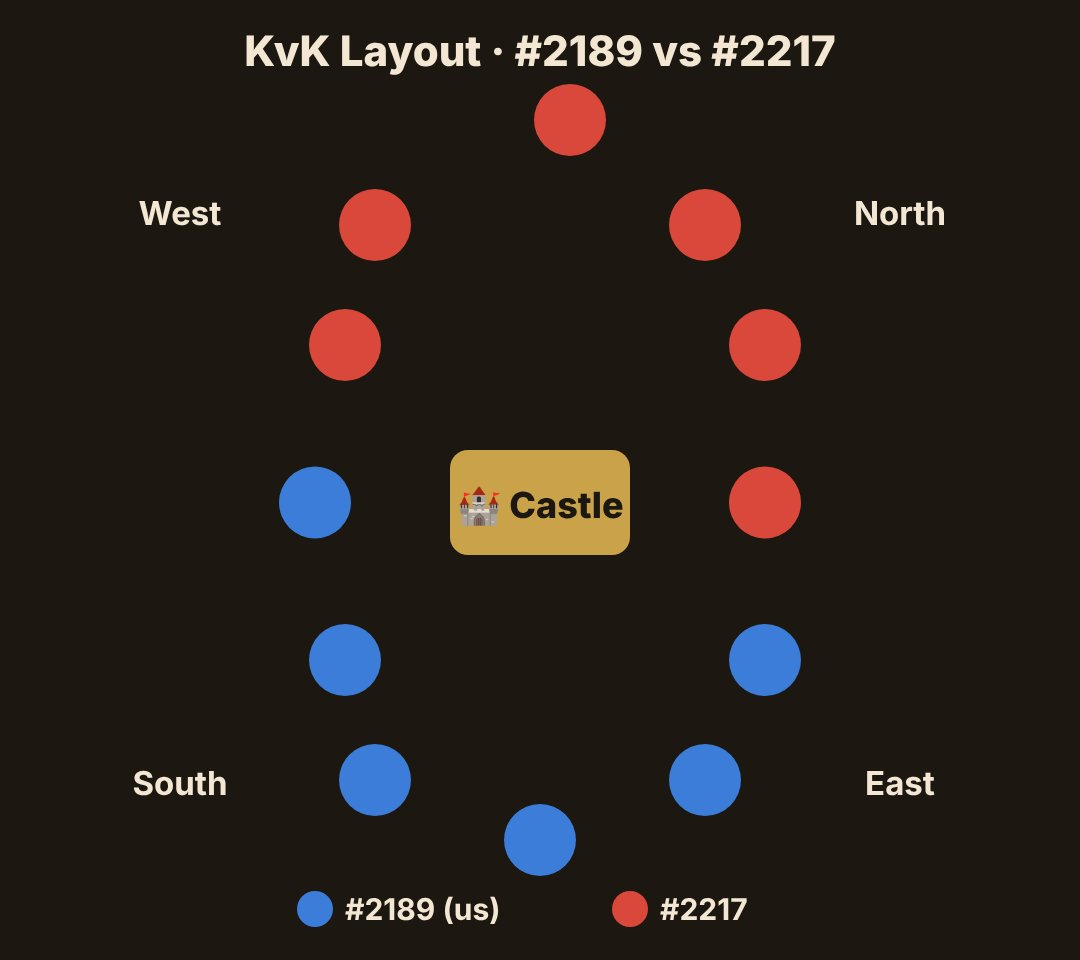
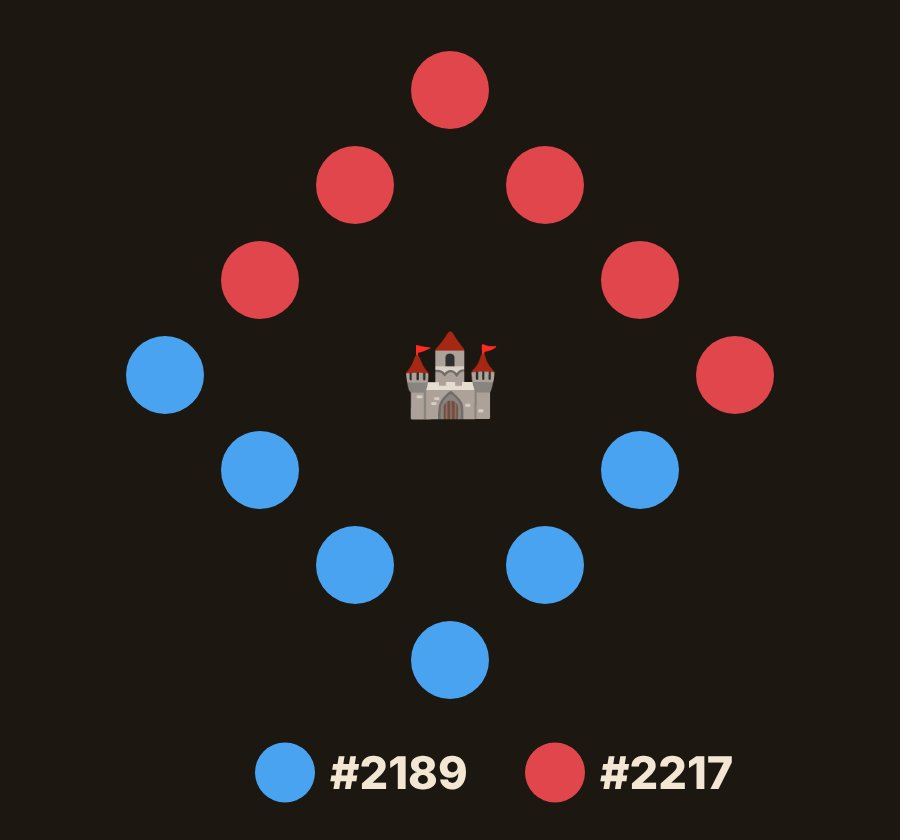
KvK layout picture redrawn as a diamond, no words (works in every language)
Claude-Session: https://claude.ai/code/session_01CUyp6XeRkq5wWm1b7wYML8

diff --git a/sw.js b/sw.js
@@ -3,7 +3,7 @@
    - Pages, app code, guide text and data files: try the network first (so new uploads show up
      right away); if it doesn't answer within 1.5 s for pages/code (3 s for data files), or there
      is no internet, show the saved copy. */
-const CACHE = "nxs-v685";
+const CACHE = "nxs-v686";
 const INBOX = "nxs-inbox", INBOX_KEY = "./__inbox";   // reminders that arrived, for the red badge + the "🔔 missed" card
 const NETWORK_TIMEOUT_MS = 3000;        // data files
 const SHELL_TIMEOUT_MS = 1500;          // pages, code, guide text
